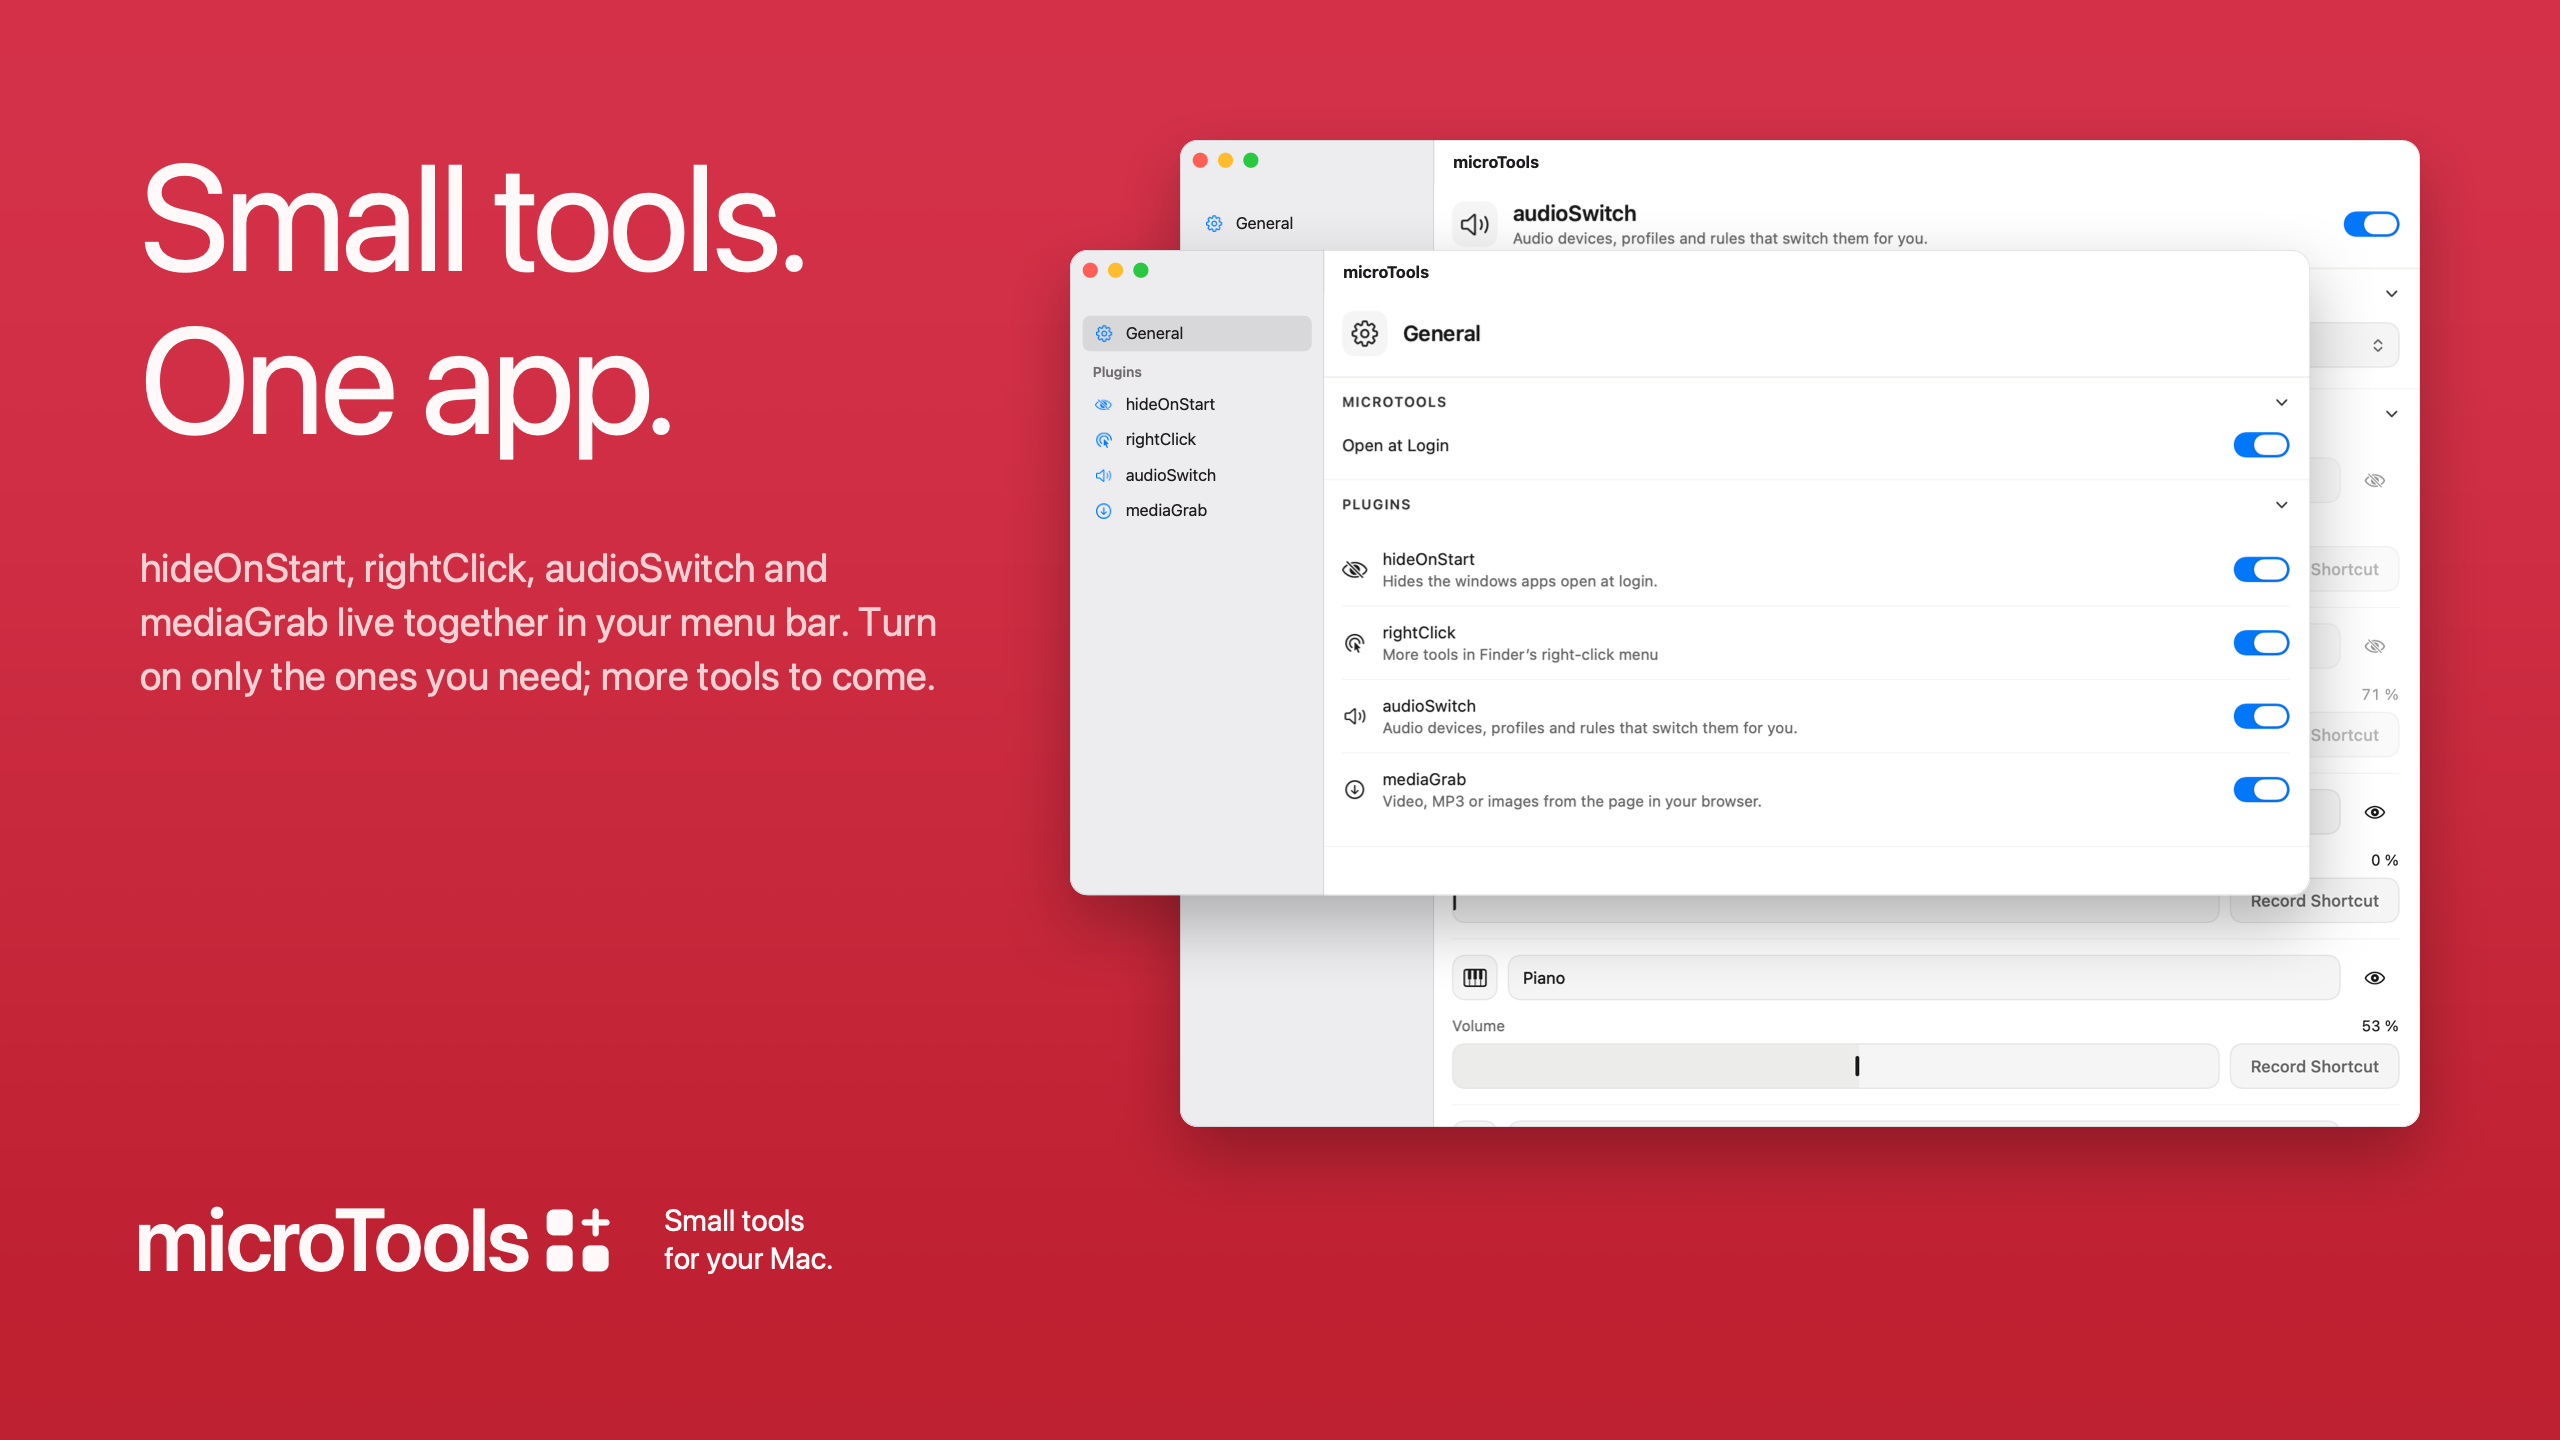
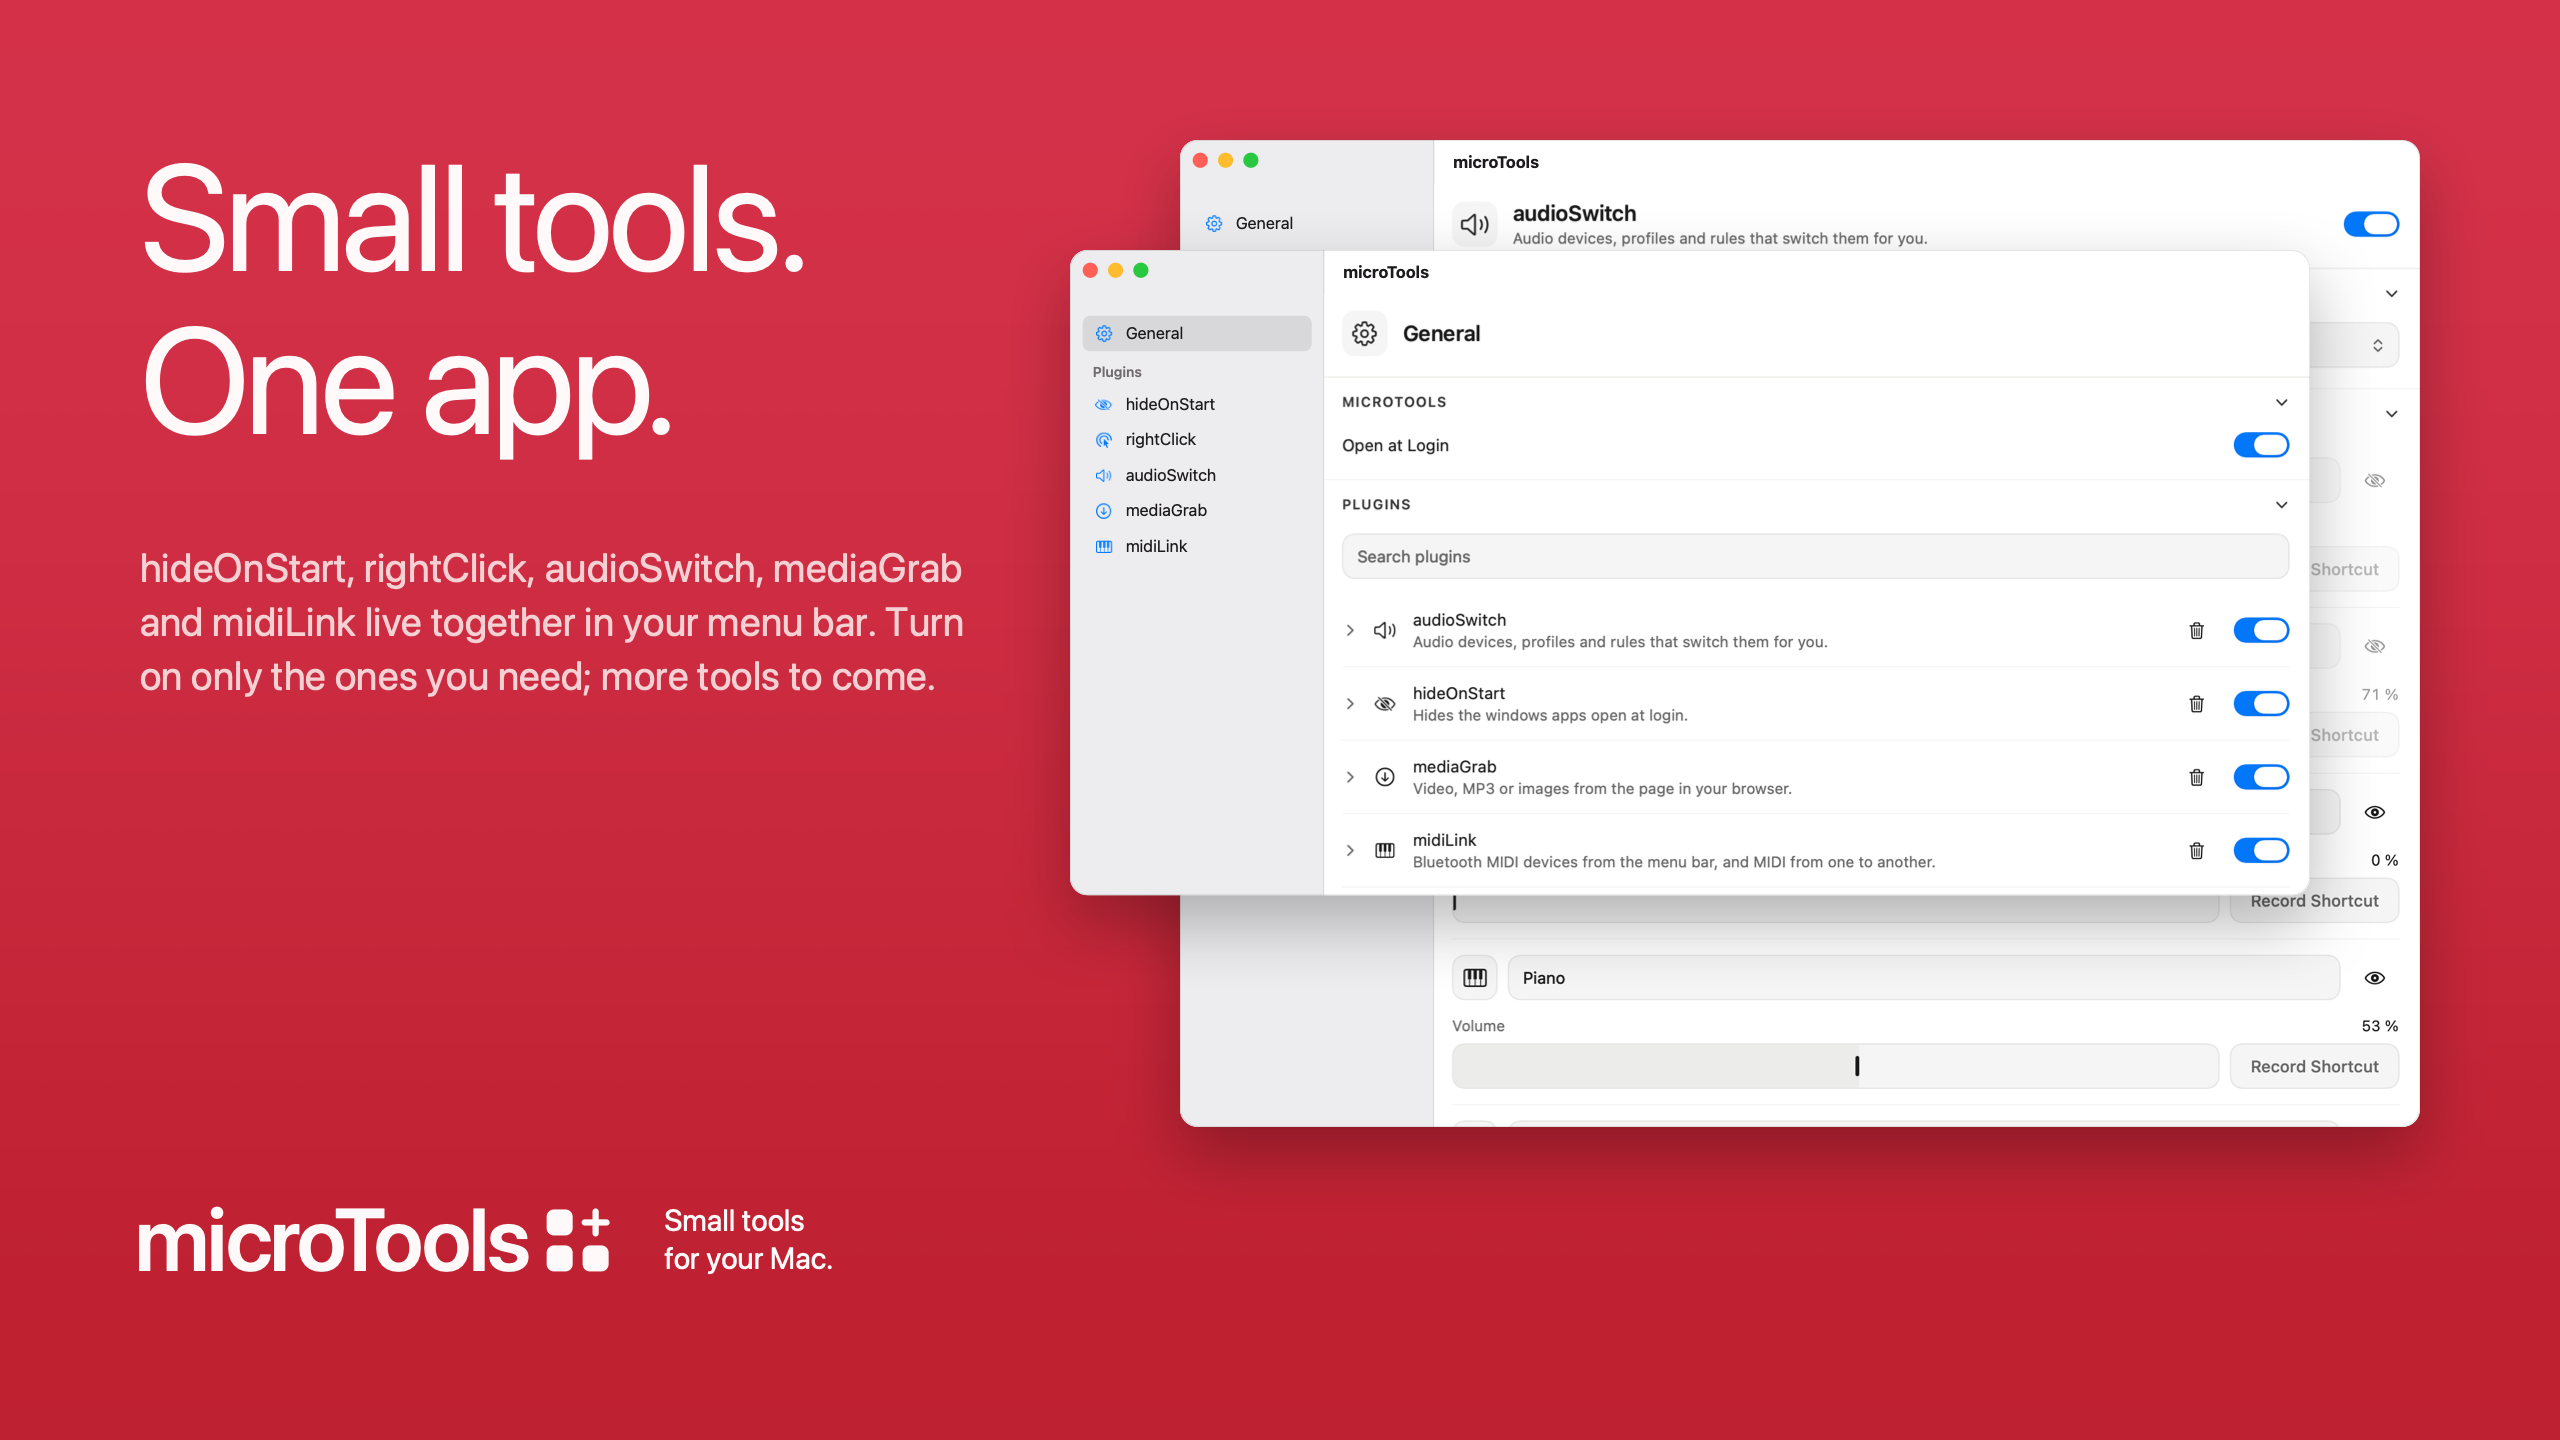
Landing: midiLink capture, General with five plugins

diff --git a/index.html b/index.html
@@ -302,13 +302,14 @@
     <div class="copy">
       <div class="plugin-name"><svg><use href="#i-midiLink"/></svg>midiLink</div>
       <h2>Bluetooth MIDI,<br>no fuss.</h2>
-    </div>
-    <dl class="features" style="margin-top:0">
+    <dl class="features">
       <div><dt class="soft">From the menu bar</dt><dd>Your instruments with a check when connected, your own names and icons, and a green light while they play.</dd></div>
       <div><dt class="soft">Connects by itself</dt><dd>Switch the instrument on and it connects, with a notice; switch it off and it waits for it again, without using your battery.</dd></div>
       <div><dt class="soft">Works with every app</dt><dd>Each instrument is a MIDI port any music app can use — even the ones macOS’s own Bluetooth MIDI does not pass on.</dd></div>
       <div><dt class="soft">Routes</dt><dd>The MIDI of one port to another: a Bluetooth keyboard to a USB synth or to an app.</dd></div>
     </dl>
+    </div>
+    <div class="window dark" data-shot="midiLink-dark" data-active="midiLink"></div>
   </div>
 </section>
 
